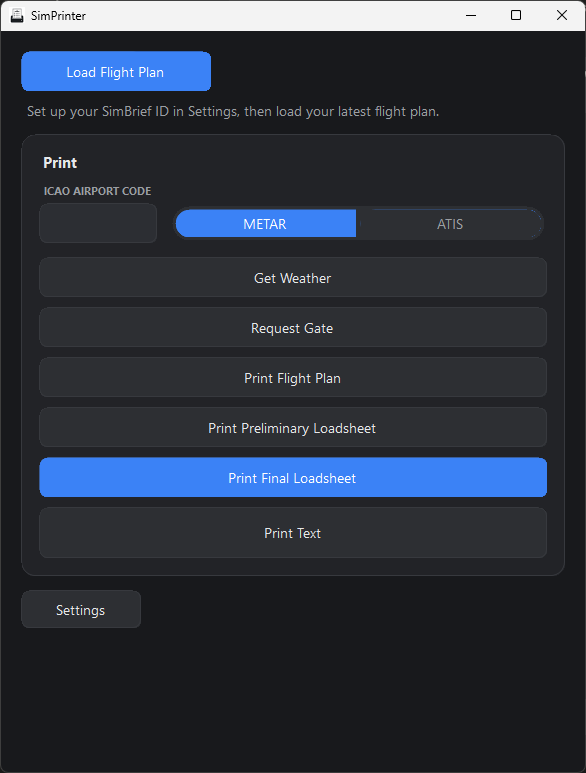
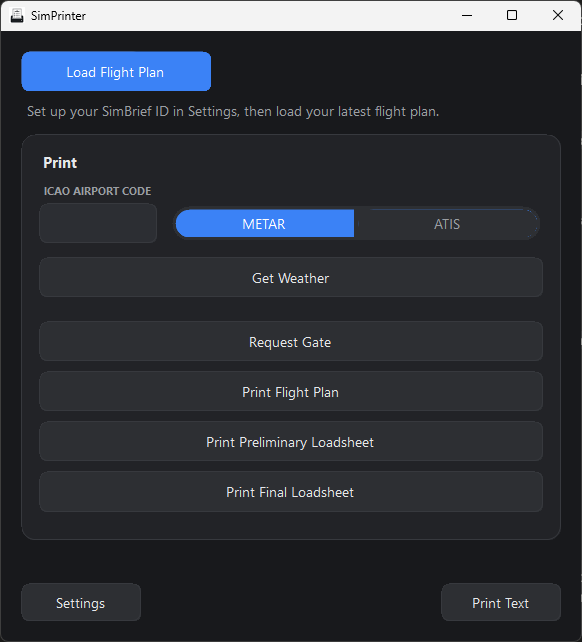
Footer pinned to bottom, Print Text moved back to footer, styling tweaks
Settings and the off-block countdown now stay anchored to the bottom of
the window instead of just trailing after the Print card, which left
them floating awkwardly if the window was resized taller. Print Text
moved back out of the Print card into the footer, bottom-right, same
shape as Settings. Print Final Loadsheet no longer stands out in blue -
it's just one more button among equals now that everything's grouped
together. Added extra spacing after Get Weather so it reads as grouped
with the ICAO/METAR-ATIS input above it, separate from Request Gate and
the print actions below.

diff --git a/src/SimPrinter/MainForm.cs b/src/SimPrinter/MainForm.cs
@@ -109,39 +109,44 @@ namespace SimPrinter
 
         private void BuildUi()
         {
-            // AutoSize + Dock=Top (not Fill) so root's height is its own natural total,
+            // The footer (Settings + off-block countdown) is a direct child of the form with
+            // Dock=Bottom, not part of the scrollable content below - that's what keeps it
+            // pinned to the bottom of the window instead of just trailing after the Print
+            // card, which would otherwise leave it floating awkwardly on a taller window.
+            var footer = BuildFooter();
+            footer.Dock = DockStyle.Bottom;
+            Controls.Add(footer);
+
+            // AutoSize + Dock=Top (not Fill) so contentRoot's height is its own natural total,
             // handed to the AutoScroll host below - shrinking the window past that natural
-            // size scrolls instead of clipping the Print card's buttons or the footer, which
-            // is what actually lets the window go small on low-resolution screens.
-            var root = new TableLayoutPanel
+            // size scrolls instead of clipping the Print card's buttons, which is what actually
+            // lets the window go small on low-resolution screens.
+            var contentRoot = new TableLayoutPanel
             {
                 Dock = DockStyle.Top,
                 AutoSize = true,
                 AutoSizeMode = AutoSizeMode.GrowAndShrink,
                 ColumnCount = 1,
-                RowCount = 3,
+                RowCount = 2,
                 BackColor = UiStyle.BackgroundColor
             };
-            root.RowStyles.Add(new RowStyle(SizeType.AutoSize));
-            root.RowStyles.Add(new RowStyle(SizeType.AutoSize));
-            root.RowStyles.Add(new RowStyle(SizeType.AutoSize));
+            contentRoot.RowStyles.Add(new RowStyle(SizeType.AutoSize));
+            contentRoot.RowStyles.Add(new RowStyle(SizeType.AutoSize));
 
-            root.Controls.Add(BuildTopPanel(), 0, 0);
+            contentRoot.Controls.Add(BuildTopPanel(), 0, 0);
 
             _cardActions = UiStyle.CreateCard("Print", out _actionsContent);
             // CreateCard defaults to Dock=Fill, which is ambiguous when placed in an AutoSize
             // row (WinForms can't ask "what's your preferred size" of a Fill-docked control).
             // An explicit Height + Dock=Top sidesteps that - matches the card's real content:
-            // padding(36) + header(~37) + ICAO label(~25) + input row(54) + 6 buttons at 40px
-            // with 10px gaps between them (last one has no trailing margin).
+            // padding(36) + header(~37) + ICAO label(~25) + input row(54) + 5 buttons at 40px
+            // with 10px gaps between them.
             _cardActions.Dock = DockStyle.Top;
-            _cardActions.Height = 442;
+            _cardActions.Height = 406;
             _cardActions.Margin = new Padding(0, 14, 0, 14);
             BuildActionsContent(_actionsContent);
             SetFlightPlanActionsEnabled(false);
-            root.Controls.Add(_cardActions, 0, 1);
-
-            root.Controls.Add(BuildFooter(), 0, 2);
+            contentRoot.Controls.Add(_cardActions, 0, 1);
 
             var scrollHost = new Panel
             {
@@ -149,7 +154,7 @@ namespace SimPrinter
                 AutoScroll = true,
                 BackColor = UiStyle.BackgroundColor
             };
-            scrollHost.Controls.Add(root);
+            scrollHost.Controls.Add(contentRoot);
 
             Controls.Add(scrollHost);
         }
@@ -199,12 +204,11 @@ namespace SimPrinter
             {
                 Dock = DockStyle.Fill,
                 ColumnCount = 1,
-                RowCount = 8,
+                RowCount = 7,
                 Margin = new Padding(0)
             };
             layout.RowStyles.Add(new RowStyle(SizeType.AutoSize));
             layout.RowStyles.Add(new RowStyle(SizeType.Absolute, 54));
-            layout.RowStyles.Add(new RowStyle(SizeType.AutoSize));
             layout.RowStyles.Add(new RowStyle(SizeType.AutoSize));
             layout.RowStyles.Add(new RowStyle(SizeType.AutoSize));
             layout.RowStyles.Add(new RowStyle(SizeType.AutoSize));
@@ -251,7 +255,10 @@ namespace SimPrinter
             _btnGetWeather.Text = "Get Weather";
             _btnGetWeather.Dock = DockStyle.Top;
             _btnGetWeather.Height = 40;
-            _btnGetWeather.Margin = new Padding(0, 0, 0, 10);
+            // Extra bottom margin (vs. the 10px between the other buttons) visually groups
+            // this with the ICAO/METAR-ATIS input above it, since it acts on that input,
+            // while Request Gate and the print actions below are their own separate group.
+            _btnGetWeather.Margin = new Padding(0, 0, 0, 24);
             _btnGetWeather.Click += BtnGetWeather_Click;
             UiStyle.StyleSecondaryButton(_btnGetWeather);
 
@@ -281,18 +288,7 @@ namespace SimPrinter
             _btnPrintFinal.Height = 40;
             _btnPrintFinal.Margin = new Padding(0, 0, 0, 10);
             _btnPrintFinal.Click += BtnPrintFinal_Click;
-            UiStyle.StylePrimaryButton(_btnPrintFinal);
-
-            // Unlike the three buttons above, Print Text doesn't need a flight plan loaded -
-            // see SetFlightPlanActionsEnabled, which enables/disables those three individually
-            // rather than disabling _actionsContent as a whole (Enabled cascades to every
-            // descendant regardless of nesting, which would take Print Text down with them).
-            _btnPrintText.Text = "Print Text";
-            _btnPrintText.Dock = DockStyle.Fill;
-            _btnPrintText.Height = 40;
-            _btnPrintText.Margin = new Padding(0);
-            _btnPrintText.Click += BtnPrintText_Click;
-            UiStyle.StyleSecondaryButton(_btnPrintText);
+            UiStyle.StyleSecondaryButton(_btnPrintFinal);
 
             layout.Controls.Add(lblIcao, 0, 0);
             layout.Controls.Add(inputRow, 0, 1);
@@ -301,7 +297,6 @@ namespace SimPrinter
             layout.Controls.Add(_btnPrintFlightPlan, 0, 4);
             layout.Controls.Add(_btnPrintPrelim, 0, 5);
             layout.Controls.Add(_btnPrintFinal, 0, 6);
-            layout.Controls.Add(_btnPrintText, 0, 7);
 
             content.Controls.Add(layout);
         }
@@ -318,13 +313,14 @@ namespace SimPrinter
             var footer = new TableLayoutPanel
             {
                 Dock = DockStyle.Top,
-                ColumnCount = 2,
+                ColumnCount = 3,
                 RowCount = 1,
                 AutoSize = true,
                 Margin = new Padding(0)
             };
             footer.ColumnStyles.Add(new ColumnStyle(SizeType.AutoSize));
             footer.ColumnStyles.Add(new ColumnStyle(SizeType.Percent, 100));
+            footer.ColumnStyles.Add(new ColumnStyle(SizeType.AutoSize));
 
             _btnSettings.Text = "Settings";
             _btnSettings.AutoSize = false;
@@ -337,10 +333,21 @@ namespace SimPrinter
             _lblOffBlock.Dock = DockStyle.Fill;
             _lblOffBlock.TextAlign = ContentAlignment.MiddleRight;
             _lblOffBlock.ForeColor = UiStyle.MutedTextColor;
-            _lblOffBlock.Margin = new Padding(0);
+            _lblOffBlock.Margin = new Padding(0, 0, 10, 0);
+
+            // Doesn't need a flight plan loaded, unlike the three buttons in the Print card -
+            // see SetFlightPlanActionsEnabled, which only touches those three individually.
+            _btnPrintText.Text = "Print Text";
+            _btnPrintText.AutoSize = false;
+            _btnPrintText.Width = 120;
+            _btnPrintText.Height = 38;
+            _btnPrintText.Margin = new Padding(0);
+            _btnPrintText.Click += BtnPrintText_Click;
+            UiStyle.StyleSecondaryButton(_btnPrintText, UiStyle.BackgroundColor);
 
             footer.Controls.Add(_btnSettings, 0, 0);
             footer.Controls.Add(_lblOffBlock, 1, 0);
+            footer.Controls.Add(_btnPrintText, 2, 0);
 
             return footer;
         }
